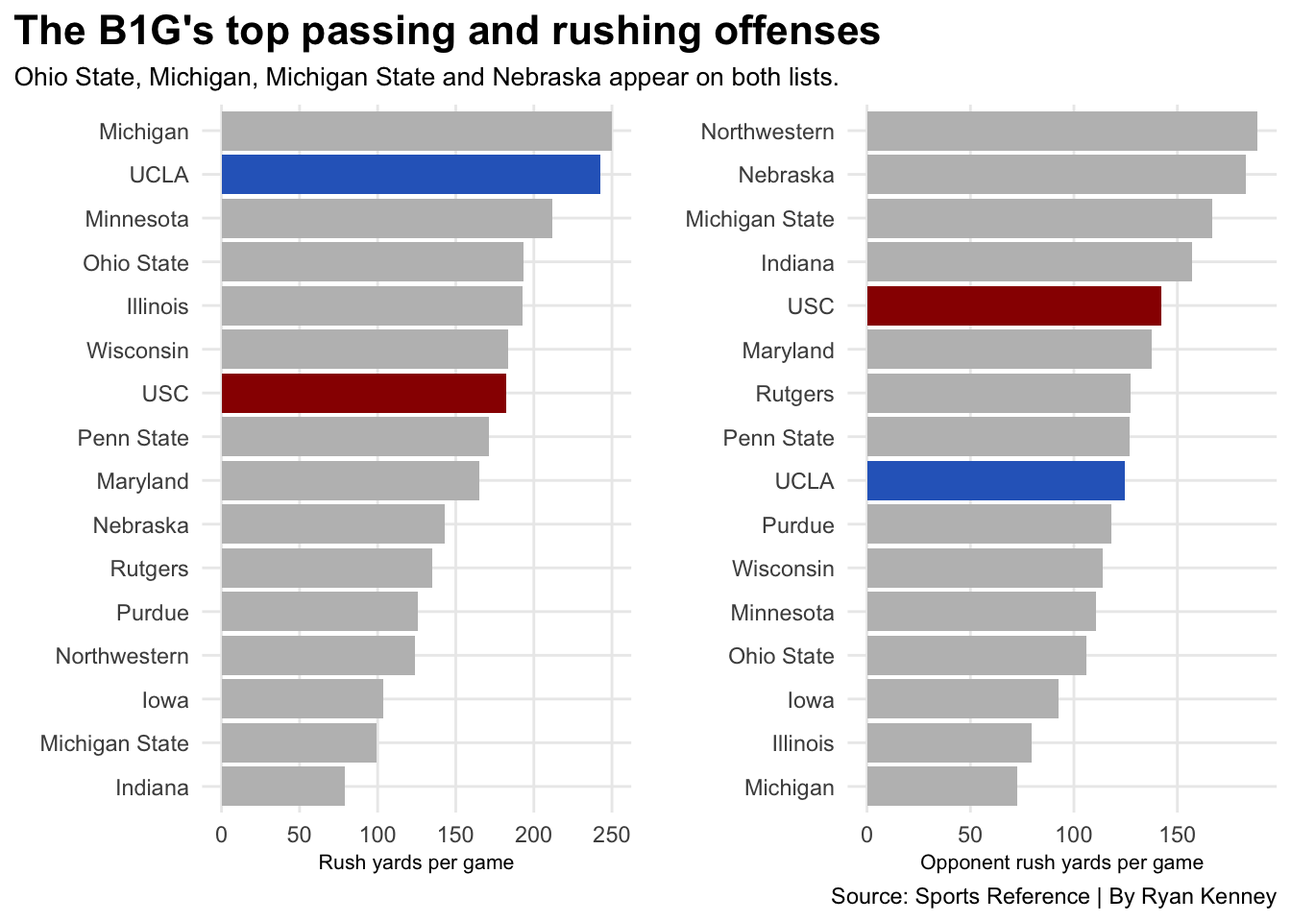
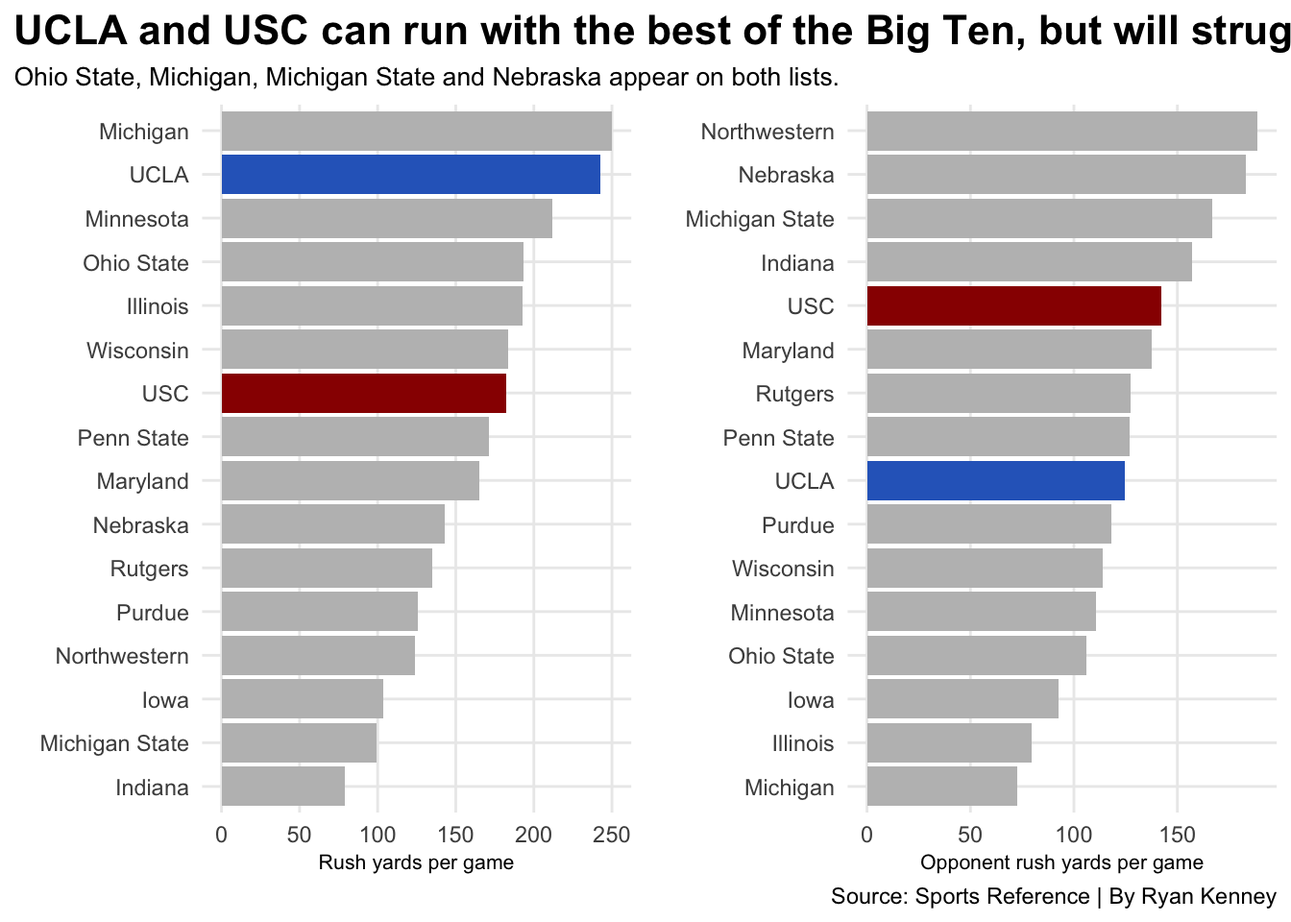
yes

Changed region(s): [[0.0, 0.0, 1.0, 0.0625]]

diff --git a/posts/ucla-and-usc-meet-big-ten-style-football/index.html b/posts/ucla-and-usc-meet-big-ten-style-football/index.html
@@ -280,7 +280,7 @@ code span.wa { color: #60a0b0; font-weight: bold; font-style: italic; } /* Warni
 <span id="cb1-64"><a href="#cb1-64" aria-hidden="true" tabindex="-1"></a>  <span class="fu">geom_bar</span>(<span class="at">data=</span>uclaOff, <span class="fu">aes</span>(<span class="at">x=</span><span class="fu">reorder</span>(School, RushYds), <span class="at">weight=</span>RushYds), <span class="at">fill=</span><span class="st">"#2D68C4"</span>) <span class="sc">+</span></span>
 <span id="cb1-65"><a href="#cb1-65" aria-hidden="true" tabindex="-1"></a>  <span class="fu">geom_bar</span>(<span class="at">data=</span>uscOff, <span class="fu">aes</span>(<span class="at">x=</span><span class="fu">reorder</span>(School, RushYds), <span class="at">weight=</span>RushYds), <span class="at">fill=</span><span class="st">"#990000"</span>) <span class="sc">+</span></span>
 <span id="cb1-66"><a href="#cb1-66" aria-hidden="true" tabindex="-1"></a>  <span class="fu">coord_flip</span>() <span class="sc">+</span> </span>
-<span id="cb1-67"><a href="#cb1-67" aria-hidden="true" tabindex="-1"></a>  <span class="fu">labs</span>(<span class="at">title=</span><span class="st">"The B1G's top passing and rushing offenses"</span>, <span class="at">subtitle =</span> <span class="st">"Ohio State, Michigan, Michigan State and Nebraska appear on both lists."</span>,  <span class="at">x=</span><span class="st">""</span>, <span class="at">y=</span><span class="st">"Rush yards per game"</span>, <span class="at">caption =</span> <span class="st">""</span>) <span class="sc">+</span> </span>
+<span id="cb1-67"><a href="#cb1-67" aria-hidden="true" tabindex="-1"></a>  <span class="fu">labs</span>(<span class="at">title=</span><span class="st">"UCLA and USC can run with the best of the Big Ten, but will struggle to defend it "</span>, <span class="at">subtitle =</span> <span class="st">"Ohio State, Michigan, Michigan State and Nebraska appear on both lists."</span>,  <span class="at">x=</span><span class="st">""</span>, <span class="at">y=</span><span class="st">"Rush yards per game"</span>, <span class="at">caption =</span> <span class="st">""</span>) <span class="sc">+</span> </span>
 <span id="cb1-68"><a href="#cb1-68" aria-hidden="true" tabindex="-1"></a>  <span class="fu">theme_minimal</span>() <span class="sc">+</span> </span>
 <span id="cb1-69"><a href="#cb1-69" aria-hidden="true" tabindex="-1"></a>  <span class="fu">theme</span>(</span>
 <span id="cb1-70"><a href="#cb1-70" aria-hidden="true" tabindex="-1"></a>    <span class="at">plot.title =</span> <span class="fu">element_text</span>(<span class="at">size =</span> <span class="dv">16</span>, <span class="at">face =</span> <span class="st">"bold"</span>),</span>
@@ -318,87 +318,88 @@ code span.wa { color: #60a0b0; font-weight: bold; font-style: italic; } /* Warni
 <div class="cell">
 <details>
 <summary>Code</summary>
-<div class="sourceCode cell-code" id="cb2"><pre class="sourceCode r code-with-copy"><code class="sourceCode r"><span id="cb2-1"><a href="#cb2-1" aria-hidden="true" tabindex="-1"></a><span class="fu">ggplot</span>() <span class="sc">+</span> </span>
-<span id="cb2-2"><a href="#cb2-2" aria-hidden="true" tabindex="-1"></a>  <span class="fu">geom_point</span>(</span>
-<span id="cb2-3"><a href="#cb2-3" aria-hidden="true" tabindex="-1"></a>    <span class="at">data=</span>bigten22, </span>
-<span id="cb2-4"><a href="#cb2-4" aria-hidden="true" tabindex="-1"></a>    <span class="fu">aes</span>(<span class="at">x=</span>SRS, <span class="at">y=</span>SOS, <span class="at">size=</span>W), </span>
-<span id="cb2-5"><a href="#cb2-5" aria-hidden="true" tabindex="-1"></a>    <span class="at">color=</span><span class="st">"grey"</span>, </span>
-<span id="cb2-6"><a href="#cb2-6" aria-hidden="true" tabindex="-1"></a>    <span class="at">alpha=</span>.<span class="dv">3</span>) <span class="sc">+</span> </span>
-<span id="cb2-7"><a href="#cb2-7" aria-hidden="true" tabindex="-1"></a>  <span class="fu">geom_point</span>(</span>
-<span id="cb2-8"><a href="#cb2-8" aria-hidden="true" tabindex="-1"></a>    <span class="at">data=</span>bigten22, </span>
-<span id="cb2-9"><a href="#cb2-9" aria-hidden="true" tabindex="-1"></a>    <span class="fu">aes</span>(<span class="at">x=</span>SRS, <span class="at">y=</span>SOS, <span class="at">size=</span>W), </span>
-<span id="cb2-10"><a href="#cb2-10" aria-hidden="true" tabindex="-1"></a>    <span class="at">color=</span><span class="st">"red"</span>) <span class="sc">+</span> </span>
-<span id="cb2-11"><a href="#cb2-11" aria-hidden="true" tabindex="-1"></a>  <span class="fu">geom_vline</span>(<span class="at">xintercept =</span> <span class="fl">7.1025</span>) <span class="sc">+</span> </span>
-<span id="cb2-12"><a href="#cb2-12" aria-hidden="true" tabindex="-1"></a>  <span class="fu">geom_hline</span>(<span class="at">yintercept =</span> <span class="fl">0.97125</span>) <span class="sc">+</span></span>
-<span id="cb2-13"><a href="#cb2-13" aria-hidden="true" tabindex="-1"></a>  <span class="fu">geom_text</span>(<span class="fu">aes</span>(<span class="at">x=</span><span class="fl">20.5</span>, <span class="at">y=</span><span class="fl">5.5</span>, <span class="at">label=</span><span class="st">"Good SRS, Good SOS"</span>), <span class="at">color=</span><span class="st">"blue"</span>) <span class="sc">+</span></span>
-<span id="cb2-14"><a href="#cb2-14" aria-hidden="true" tabindex="-1"></a>  <span class="fu">geom_text</span>(<span class="fu">aes</span>(<span class="at">x=</span><span class="sc">-</span><span class="fl">4.5</span>, <span class="at">y=</span><span class="sc">-</span><span class="fl">2.8</span>, <span class="at">label=</span><span class="st">"Bad SRS, Bad SOS"</span>), <span class="at">color=</span><span class="st">"blue"</span>) <span class="sc">+</span></span>
-<span id="cb2-15"><a href="#cb2-15" aria-hidden="true" tabindex="-1"></a>  <span class="fu">geom_text_repel</span>(</span>
-<span id="cb2-16"><a href="#cb2-16" aria-hidden="true" tabindex="-1"></a>    <span class="at">data=</span>bigten22, </span>
-<span id="cb2-17"><a href="#cb2-17" aria-hidden="true" tabindex="-1"></a>    <span class="fu">aes</span>(<span class="at">x=</span>SRS, <span class="at">y=</span>SOS, <span class="at">label=</span>Team)</span>
-<span id="cb2-18"><a href="#cb2-18" aria-hidden="true" tabindex="-1"></a>  ) <span class="sc">+</span></span>
-<span id="cb2-19"><a href="#cb2-19" aria-hidden="true" tabindex="-1"></a>  </span>
-<span id="cb2-20"><a href="#cb2-20" aria-hidden="true" tabindex="-1"></a>   <span class="fu">labs</span>(</span>
-<span id="cb2-21"><a href="#cb2-21" aria-hidden="true" tabindex="-1"></a>    <span class="at">x=</span><span class="st">"Simple Rating System (SRS)"</span>, </span>
-<span id="cb2-22"><a href="#cb2-22" aria-hidden="true" tabindex="-1"></a>    <span class="at">y=</span><span class="st">"Strength of Schedule (SOS)"</span>, </span>
-<span id="cb2-23"><a href="#cb2-23" aria-hidden="true" tabindex="-1"></a>    <span class="at">title=</span><span class="st">"USC"</span>, </span>
-<span id="cb2-24"><a href="#cb2-24" aria-hidden="true" tabindex="-1"></a>    <span class="at">subtitle=</span><span class="st">"USC is winning games despite having a harder strength of schedule than any Big Ten team."</span>, </span>
-<span id="cb2-25"><a href="#cb2-25" aria-hidden="true" tabindex="-1"></a>    <span class="at">caption=</span><span class="st">"Source: Sports Reference | By Ryan Kenney"</span></span>
-<span id="cb2-26"><a href="#cb2-26" aria-hidden="true" tabindex="-1"></a>    ) <span class="sc">+</span></span>
-<span id="cb2-27"><a href="#cb2-27" aria-hidden="true" tabindex="-1"></a>  </span>
-<span id="cb2-28"><a href="#cb2-28" aria-hidden="true" tabindex="-1"></a>  <span class="fu">theme_light</span>() <span class="sc">+</span></span>
-<span id="cb2-29"><a href="#cb2-29" aria-hidden="true" tabindex="-1"></a>  <span class="fu">theme</span>(</span>
-<span id="cb2-30"><a href="#cb2-30" aria-hidden="true" tabindex="-1"></a>    <span class="at">plot.title =</span> <span class="fu">element_text</span>(<span class="at">size =</span> <span class="dv">16</span>, <span class="at">face =</span> <span class="st">"bold"</span>),</span>
-<span id="cb2-31"><a href="#cb2-31" aria-hidden="true" tabindex="-1"></a>    <span class="at">axis.title =</span> <span class="fu">element_text</span>(<span class="at">size =</span> <span class="dv">8</span>),</span>
-<span id="cb2-32"><a href="#cb2-32" aria-hidden="true" tabindex="-1"></a>    <span class="at">plot.subtitle =</span> <span class="fu">element_text</span>(<span class="at">size =</span> <span class="dv">10</span>),</span>
-<span id="cb2-33"><a href="#cb2-33" aria-hidden="true" tabindex="-1"></a>    <span class="at">panel.grid.minor =</span> <span class="fu">element_blank</span>()</span>
-<span id="cb2-34"><a href="#cb2-34" aria-hidden="true" tabindex="-1"></a>  )</span></code><button title="Copy to Clipboard" class="code-copy-button"><i class="bi"></i></button></pre></div>
+<div class="sourceCode cell-code" id="cb2"><pre class="sourceCode r code-with-copy"><code class="sourceCode r"><span id="cb2-1"><a href="#cb2-1" aria-hidden="true" tabindex="-1"></a>bigten <span class="ot">&lt;-</span> <span class="fu">c</span>(<span class="st">"Illinois"</span>, <span class="st">"Indiana"</span>, <span class="st">"Iowa"</span>, <span class="st">"Maryland"</span>, <span class="st">"Michigan State"</span>, <span class="st">"Michigan"</span>, <span class="st">"Minnesota"</span>, <span class="st">"Nebraska"</span>, <span class="st">"Northwestern"</span>, <span class="st">"Ohio State"</span>, <span class="st">"Penn State"</span>, <span class="st">"Purdue"</span>, <span class="st">"Rutgers"</span>, <span class="st">"Wisconsin"</span>, <span class="st">"UCLA"</span>, <span class="st">"USC"</span>)</span>
+<span id="cb2-2"><a href="#cb2-2" aria-hidden="true" tabindex="-1"></a></span>
+<span id="cb2-3"><a href="#cb2-3" aria-hidden="true" tabindex="-1"></a>bigtendefense <span class="ot">&lt;-</span> teamdefense <span class="sc">%&gt;%</span> <span class="fu">filter</span>(School <span class="sc">%in%</span> bigten)</span>
+<span id="cb2-4"><a href="#cb2-4" aria-hidden="true" tabindex="-1"></a></span>
+<span id="cb2-5"><a href="#cb2-5" aria-hidden="true" tabindex="-1"></a>bigtenrank <span class="ot">&lt;-</span> bigtendefense <span class="sc">%&gt;%</span> <span class="fu">group_by</span>(Season) <span class="sc">%&gt;%</span> </span>
+<span id="cb2-6"><a href="#cb2-6" aria-hidden="true" tabindex="-1"></a>  <span class="fu">mutate</span>(<span class="at">Rank =</span> <span class="fu">dense_rank</span>(Pts))</span>
+<span id="cb2-7"><a href="#cb2-7" aria-hidden="true" tabindex="-1"></a></span>
+<span id="cb2-8"><a href="#cb2-8" aria-hidden="true" tabindex="-1"></a><span class="fu">ggplot</span>() <span class="sc">+</span> </span>
+<span id="cb2-9"><a href="#cb2-9" aria-hidden="true" tabindex="-1"></a>  <span class="fu">geom_bump</span>(<span class="at">data=</span>bigtenrank, <span class="fu">aes</span>(<span class="at">x=</span><span class="fu">as.numeric</span>(Season), <span class="at">y=</span>Rank, <span class="at">color=</span>School)) <span class="sc">+</span></span>
+<span id="cb2-10"><a href="#cb2-10" aria-hidden="true" tabindex="-1"></a>  </span>
+<span id="cb2-11"><a href="#cb2-11" aria-hidden="true" tabindex="-1"></a>  <span class="fu">geom_point</span>(<span class="at">data=</span>bigtenrank, <span class="fu">aes</span>(<span class="at">x=</span><span class="fu">as.numeric</span>(Season), <span class="at">y=</span>Rank, <span class="at">color=</span>School), <span class="at">size =</span> <span class="dv">2</span>) <span class="sc">+</span></span>
+<span id="cb2-12"><a href="#cb2-12" aria-hidden="true" tabindex="-1"></a>  </span>
+<span id="cb2-13"><a href="#cb2-13" aria-hidden="true" tabindex="-1"></a>  <span class="fu">geom_text</span>(<span class="at">data =</span> bigtenrank <span class="sc">%&gt;%</span> <span class="fu">filter</span>(<span class="fu">as.numeric</span>(Season) <span class="sc">==</span> <span class="dv">2014</span>), <span class="fu">aes</span>(<span class="at">x =</span> <span class="fu">as.numeric</span>(Season) <span class="sc">-</span> .<span class="dv">05</span>, <span class="at">y=</span>Rank, <span class="at">label =</span> School), <span class="at">size =</span> <span class="dv">2</span>, <span class="at">hjust =</span> <span class="dv">1</span>) <span class="sc">+</span></span>
+<span id="cb2-14"><a href="#cb2-14" aria-hidden="true" tabindex="-1"></a>  <span class="fu">geom_text</span>(<span class="at">data =</span> bigtenrank <span class="sc">%&gt;%</span> <span class="fu">filter</span>(<span class="fu">as.numeric</span>(Season) <span class="sc">==</span> <span class="dv">2022</span>), <span class="fu">aes</span>(<span class="at">x =</span> <span class="fu">as.numeric</span>(Season) <span class="sc">+</span> .<span class="dv">05</span>, <span class="at">y=</span>Rank, <span class="at">label =</span> School), <span class="at">size =</span> <span class="dv">2</span>, <span class="at">hjust =</span> <span class="dv">0</span>) <span class="sc">+</span></span>
+<span id="cb2-15"><a href="#cb2-15" aria-hidden="true" tabindex="-1"></a>  </span>
+<span id="cb2-16"><a href="#cb2-16" aria-hidden="true" tabindex="-1"></a>  </span>
+<span id="cb2-17"><a href="#cb2-17" aria-hidden="true" tabindex="-1"></a>  <span class="fu">scale_color_manual</span>(<span class="at">values =</span> <span class="fu">c</span>(<span class="st">"#000000"</span>,<span class="st">"#000000"</span>, <span class="st">"#000000"</span>, <span class="st">"#000000"</span>, <span class="st">"#000000"</span>, <span class="st">"#000000"</span>,<span class="st">"#000000"</span>, <span class="st">"#000000"</span>, <span class="st">"#000000"</span>, <span class="st">"#000000"</span>, <span class="st">"#000000"</span>, <span class="st">"#000000"</span>, <span class="st">"#000000"</span>,<span class="st">"#2D68C4"</span>,<span class="st">"#990000"</span>,<span class="st">"#000000"</span>)) <span class="sc">+</span></span>
+<span id="cb2-18"><a href="#cb2-18" aria-hidden="true" tabindex="-1"></a>  </span>
+<span id="cb2-19"><a href="#cb2-19" aria-hidden="true" tabindex="-1"></a>  <span class="fu">scale_x_continuous</span>(<span class="at">breaks=</span><span class="fu">c</span>(<span class="dv">2014</span>, <span class="dv">2015</span>, <span class="dv">2016</span>, <span class="dv">2017</span>, <span class="dv">2018</span>, <span class="dv">2019</span>, <span class="dv">2020</span>, <span class="dv">2021</span>, <span class="dv">2022</span>)) <span class="sc">+</span></span>
+<span id="cb2-20"><a href="#cb2-20" aria-hidden="true" tabindex="-1"></a>  </span>
+<span id="cb2-21"><a href="#cb2-21" aria-hidden="true" tabindex="-1"></a>  <span class="fu">scale_y_reverse</span>(<span class="at">breaks=</span><span class="fu">c</span>(<span class="dv">1</span>,<span class="dv">2</span>,<span class="dv">3</span>,<span class="dv">4</span>,<span class="dv">5</span>,<span class="dv">6</span>,<span class="dv">7</span>,<span class="dv">8</span>,<span class="dv">9</span>,<span class="dv">10</span>,<span class="dv">11</span>,<span class="dv">12</span>,<span class="dv">13</span>,<span class="dv">14</span>,<span class="dv">15</span>,<span class="dv">16</span>)) <span class="sc">+</span></span>
+<span id="cb2-22"><a href="#cb2-22" aria-hidden="true" tabindex="-1"></a>  </span>
+<span id="cb2-23"><a href="#cb2-23" aria-hidden="true" tabindex="-1"></a>  <span class="fu">labs</span>(<span class="at">title =</span> <span class="st">"USC and UCLA on defense"</span>, <span class="at">subtitle=</span><span class="st">"subtitle goes here"</span>, <span class="at">y=</span><span class="st">"Rank"</span>, <span class="at">x=</span><span class="st">"Season"</span>) <span class="sc">+</span></span>
+<span id="cb2-24"><a href="#cb2-24" aria-hidden="true" tabindex="-1"></a>  </span>
+<span id="cb2-25"><a href="#cb2-25" aria-hidden="true" tabindex="-1"></a><span class="fu">theme_light</span>()<span class="sc">+</span></span>
+<span id="cb2-26"><a href="#cb2-26" aria-hidden="true" tabindex="-1"></a> <span class="fu">theme</span>(</span>
+<span id="cb2-27"><a href="#cb2-27" aria-hidden="true" tabindex="-1"></a>    <span class="at">legend.position =</span> <span class="st">"none"</span>,</span>
+<span id="cb2-28"><a href="#cb2-28" aria-hidden="true" tabindex="-1"></a>    <span class="at">panel.grid.major =</span> <span class="fu">element_blank</span>(),</span>
+<span id="cb2-29"><a href="#cb2-29" aria-hidden="true" tabindex="-1"></a>    <span class="at">plot.title =</span> <span class="fu">element_text</span>(<span class="at">size =</span> <span class="dv">16</span>, <span class="at">face =</span> <span class="st">"bold"</span>),</span>
+<span id="cb2-30"><a href="#cb2-30" aria-hidden="true" tabindex="-1"></a>    <span class="at">axis.title =</span> <span class="fu">element_text</span>(<span class="at">size =</span> <span class="dv">8</span>), </span>
+<span id="cb2-31"><a href="#cb2-31" aria-hidden="true" tabindex="-1"></a>    <span class="at">plot.subtitle =</span> <span class="fu">element_text</span>(<span class="at">size=</span><span class="dv">10</span>), </span>
+<span id="cb2-32"><a href="#cb2-32" aria-hidden="true" tabindex="-1"></a>    <span class="at">panel.grid.minor =</span> <span class="fu">element_blank</span>()</span>
+<span id="cb2-33"><a href="#cb2-33" aria-hidden="true" tabindex="-1"></a>  )</span></code><button title="Copy to Clipboard" class="code-copy-button"><i class="bi"></i></button></pre></div>
 </details>
 <div class="cell-output-display">
-<p><img src="index_files/figure-html/unnamed-chunk-2-1.png" class="img-fluid" width="672"></p>
+<p><img src="index_files/figure-html/unnamed-chunk-2-1.png" class="img-fluid" width="576"></p>
 </div>
 </div>
+<p>Text goes here.</p>
 <div class="cell">
 <details>
 <summary>Code</summary>
-<div class="sourceCode cell-code" id="cb3"><pre class="sourceCode r code-with-copy"><code class="sourceCode r"><span id="cb3-1"><a href="#cb3-1" aria-hidden="true" tabindex="-1"></a>bigten <span class="ot">&lt;-</span> <span class="fu">c</span>(<span class="st">"Illinois"</span>, <span class="st">"Indiana"</span>, <span class="st">"Iowa"</span>, <span class="st">"Maryland"</span>, <span class="st">"Michigan State"</span>, <span class="st">"Michigan"</span>, <span class="st">"Minnesota"</span>, <span class="st">"Nebraska"</span>, <span class="st">"Northwestern"</span>, <span class="st">"Ohio State"</span>, <span class="st">"Penn State"</span>, <span class="st">"Purdue"</span>, <span class="st">"Rutgers"</span>, <span class="st">"Wisconsin"</span>, <span class="st">"UCLA"</span>, <span class="st">"USC"</span>)</span>
-<span id="cb3-2"><a href="#cb3-2" aria-hidden="true" tabindex="-1"></a></span>
-<span id="cb3-3"><a href="#cb3-3" aria-hidden="true" tabindex="-1"></a>bigtendefense <span class="ot">&lt;-</span> teamdefense <span class="sc">%&gt;%</span> <span class="fu">filter</span>(School <span class="sc">%in%</span> bigten)</span>
-<span id="cb3-4"><a href="#cb3-4" aria-hidden="true" tabindex="-1"></a></span>
-<span id="cb3-5"><a href="#cb3-5" aria-hidden="true" tabindex="-1"></a>bigtenrank <span class="ot">&lt;-</span> bigtendefense <span class="sc">%&gt;%</span> <span class="fu">group_by</span>(Season) <span class="sc">%&gt;%</span> </span>
-<span id="cb3-6"><a href="#cb3-6" aria-hidden="true" tabindex="-1"></a>  <span class="fu">mutate</span>(<span class="at">Rank =</span> <span class="fu">dense_rank</span>(Pts))</span>
-<span id="cb3-7"><a href="#cb3-7" aria-hidden="true" tabindex="-1"></a></span>
-<span id="cb3-8"><a href="#cb3-8" aria-hidden="true" tabindex="-1"></a><span class="fu">ggplot</span>() <span class="sc">+</span> </span>
-<span id="cb3-9"><a href="#cb3-9" aria-hidden="true" tabindex="-1"></a>  <span class="fu">geom_bump</span>(<span class="at">data=</span>bigtenrank, <span class="fu">aes</span>(<span class="at">x=</span><span class="fu">as.numeric</span>(Season), <span class="at">y=</span>Rank, <span class="at">color=</span>School)) <span class="sc">+</span></span>
-<span id="cb3-10"><a href="#cb3-10" aria-hidden="true" tabindex="-1"></a>  </span>
-<span id="cb3-11"><a href="#cb3-11" aria-hidden="true" tabindex="-1"></a>  <span class="fu">geom_point</span>(<span class="at">data=</span>bigtenrank, <span class="fu">aes</span>(<span class="at">x=</span><span class="fu">as.numeric</span>(Season), <span class="at">y=</span>Rank, <span class="at">color=</span>School), <span class="at">size =</span> <span class="dv">2</span>) <span class="sc">+</span></span>
-<span id="cb3-12"><a href="#cb3-12" aria-hidden="true" tabindex="-1"></a>  </span>
-<span id="cb3-13"><a href="#cb3-13" aria-hidden="true" tabindex="-1"></a>  <span class="fu">geom_text</span>(<span class="at">data =</span> bigtenrank <span class="sc">%&gt;%</span> <span class="fu">filter</span>(<span class="fu">as.numeric</span>(Season) <span class="sc">==</span> <span class="dv">2014</span>), <span class="fu">aes</span>(<span class="at">x =</span> <span class="fu">as.numeric</span>(Season) <span class="sc">-</span> .<span class="dv">05</span>, <span class="at">y=</span>Rank, <span class="at">label =</span> School), <span class="at">size =</span> <span class="dv">2</span>, <span class="at">hjust =</span> <span class="dv">1</span>) <span class="sc">+</span></span>
-<span id="cb3-14"><a href="#cb3-14" aria-hidden="true" tabindex="-1"></a>  <span class="fu">geom_text</span>(<span class="at">data =</span> bigtenrank <span class="sc">%&gt;%</span> <span class="fu">filter</span>(<span class="fu">as.numeric</span>(Season) <span class="sc">==</span> <span class="dv">2022</span>), <span class="fu">aes</span>(<span class="at">x =</span> <span class="fu">as.numeric</span>(Season) <span class="sc">+</span> .<span class="dv">05</span>, <span class="at">y=</span>Rank, <span class="at">label =</span> School), <span class="at">size =</span> <span class="dv">2</span>, <span class="at">hjust =</span> <span class="dv">0</span>) <span class="sc">+</span></span>
-<span id="cb3-15"><a href="#cb3-15" aria-hidden="true" tabindex="-1"></a>  </span>
-<span id="cb3-16"><a href="#cb3-16" aria-hidden="true" tabindex="-1"></a>  </span>
-<span id="cb3-17"><a href="#cb3-17" aria-hidden="true" tabindex="-1"></a>  <span class="fu">scale_color_manual</span>(<span class="at">values =</span> <span class="fu">c</span>(<span class="st">"#000000"</span>,<span class="st">"#000000"</span>, <span class="st">"#000000"</span>, <span class="st">"#000000"</span>, <span class="st">"#000000"</span>, <span class="st">"#000000"</span>,<span class="st">"#000000"</span>, <span class="st">"#000000"</span>, <span class="st">"#000000"</span>, <span class="st">"#000000"</span>, <span class="st">"#000000"</span>, <span class="st">"#000000"</span>, <span class="st">"#000000"</span>,<span class="st">"#2D68C4"</span>,<span class="st">"#990000"</span>,<span class="st">"#000000"</span>)) <span class="sc">+</span></span>
-<span id="cb3-18"><a href="#cb3-18" aria-hidden="true" tabindex="-1"></a>  </span>
-<span id="cb3-19"><a href="#cb3-19" aria-hidden="true" tabindex="-1"></a>  <span class="fu">scale_x_continuous</span>(<span class="at">breaks=</span><span class="fu">c</span>(<span class="dv">2014</span>, <span class="dv">2015</span>, <span class="dv">2016</span>, <span class="dv">2017</span>, <span class="dv">2018</span>, <span class="dv">2019</span>, <span class="dv">2020</span>, <span class="dv">2021</span>, <span class="dv">2022</span>)) <span class="sc">+</span></span>
-<span id="cb3-20"><a href="#cb3-20" aria-hidden="true" tabindex="-1"></a>  </span>
-<span id="cb3-21"><a href="#cb3-21" aria-hidden="true" tabindex="-1"></a>  <span class="fu">scale_y_reverse</span>(<span class="at">breaks=</span><span class="fu">c</span>(<span class="dv">1</span>,<span class="dv">2</span>,<span class="dv">3</span>,<span class="dv">4</span>,<span class="dv">5</span>,<span class="dv">6</span>,<span class="dv">7</span>,<span class="dv">8</span>,<span class="dv">9</span>,<span class="dv">10</span>,<span class="dv">11</span>,<span class="dv">12</span>,<span class="dv">13</span>,<span class="dv">14</span>,<span class="dv">15</span>,<span class="dv">16</span>)) <span class="sc">+</span></span>
-<span id="cb3-22"><a href="#cb3-22" aria-hidden="true" tabindex="-1"></a>  </span>
-<span id="cb3-23"><a href="#cb3-23" aria-hidden="true" tabindex="-1"></a>  <span class="fu">labs</span>(<span class="at">title =</span> <span class="st">"USC and UCLA on defense"</span>, <span class="at">subtitle=</span><span class="st">"subtitle goes here"</span>, <span class="at">y=</span><span class="st">"Rank"</span>, <span class="at">x=</span><span class="st">"Season"</span>) <span class="sc">+</span></span>
-<span id="cb3-24"><a href="#cb3-24" aria-hidden="true" tabindex="-1"></a>  </span>
-<span id="cb3-25"><a href="#cb3-25" aria-hidden="true" tabindex="-1"></a><span class="fu">theme_light</span>()<span class="sc">+</span></span>
-<span id="cb3-26"><a href="#cb3-26" aria-hidden="true" tabindex="-1"></a> <span class="fu">theme</span>(</span>
-<span id="cb3-27"><a href="#cb3-27" aria-hidden="true" tabindex="-1"></a>    <span class="at">legend.position =</span> <span class="st">"none"</span>,</span>
-<span id="cb3-28"><a href="#cb3-28" aria-hidden="true" tabindex="-1"></a>    <span class="at">panel.grid.major =</span> <span class="fu">element_blank</span>(),</span>
-<span id="cb3-29"><a href="#cb3-29" aria-hidden="true" tabindex="-1"></a>    <span class="at">plot.title =</span> <span class="fu">element_text</span>(<span class="at">size =</span> <span class="dv">16</span>, <span class="at">face =</span> <span class="st">"bold"</span>),</span>
-<span id="cb3-30"><a href="#cb3-30" aria-hidden="true" tabindex="-1"></a>    <span class="at">axis.title =</span> <span class="fu">element_text</span>(<span class="at">size =</span> <span class="dv">8</span>), </span>
-<span id="cb3-31"><a href="#cb3-31" aria-hidden="true" tabindex="-1"></a>    <span class="at">plot.subtitle =</span> <span class="fu">element_text</span>(<span class="at">size=</span><span class="dv">10</span>), </span>
-<span id="cb3-32"><a href="#cb3-32" aria-hidden="true" tabindex="-1"></a>    <span class="at">panel.grid.minor =</span> <span class="fu">element_blank</span>()</span>
-<span id="cb3-33"><a href="#cb3-33" aria-hidden="true" tabindex="-1"></a>  )</span></code><button title="Copy to Clipboard" class="code-copy-button"><i class="bi"></i></button></pre></div>
+<div class="sourceCode cell-code" id="cb3"><pre class="sourceCode r code-with-copy"><code class="sourceCode r"><span id="cb3-1"><a href="#cb3-1" aria-hidden="true" tabindex="-1"></a><span class="fu">ggplot</span>() <span class="sc">+</span> </span>
+<span id="cb3-2"><a href="#cb3-2" aria-hidden="true" tabindex="-1"></a>  <span class="fu">geom_point</span>(</span>
+<span id="cb3-3"><a href="#cb3-3" aria-hidden="true" tabindex="-1"></a>    <span class="at">data=</span>bigten22, </span>
+<span id="cb3-4"><a href="#cb3-4" aria-hidden="true" tabindex="-1"></a>    <span class="fu">aes</span>(<span class="at">x=</span>SRS, <span class="at">y=</span>SOS, <span class="at">size=</span>W), </span>
+<span id="cb3-5"><a href="#cb3-5" aria-hidden="true" tabindex="-1"></a>    <span class="at">color=</span><span class="st">"grey"</span>, </span>
+<span id="cb3-6"><a href="#cb3-6" aria-hidden="true" tabindex="-1"></a>    <span class="at">alpha=</span>.<span class="dv">3</span>) <span class="sc">+</span> </span>
+<span id="cb3-7"><a href="#cb3-7" aria-hidden="true" tabindex="-1"></a>  <span class="fu">geom_point</span>(</span>
+<span id="cb3-8"><a href="#cb3-8" aria-hidden="true" tabindex="-1"></a>    <span class="at">data=</span>bigten22, </span>
+<span id="cb3-9"><a href="#cb3-9" aria-hidden="true" tabindex="-1"></a>    <span class="fu">aes</span>(<span class="at">x=</span>SRS, <span class="at">y=</span>SOS, <span class="at">size=</span>W), </span>
+<span id="cb3-10"><a href="#cb3-10" aria-hidden="true" tabindex="-1"></a>    <span class="at">color=</span><span class="st">"red"</span>) <span class="sc">+</span> </span>
+<span id="cb3-11"><a href="#cb3-11" aria-hidden="true" tabindex="-1"></a>  <span class="fu">geom_vline</span>(<span class="at">xintercept =</span> <span class="fl">7.1025</span>) <span class="sc">+</span> </span>
+<span id="cb3-12"><a href="#cb3-12" aria-hidden="true" tabindex="-1"></a>  <span class="fu">geom_hline</span>(<span class="at">yintercept =</span> <span class="fl">0.97125</span>) <span class="sc">+</span></span>
+<span id="cb3-13"><a href="#cb3-13" aria-hidden="true" tabindex="-1"></a>  <span class="fu">geom_text</span>(<span class="fu">aes</span>(<span class="at">x=</span><span class="fl">20.5</span>, <span class="at">y=</span><span class="fl">5.5</span>, <span class="at">label=</span><span class="st">"Good SRS, Good SOS"</span>), <span class="at">color=</span><span class="st">"blue"</span>) <span class="sc">+</span></span>
+<span id="cb3-14"><a href="#cb3-14" aria-hidden="true" tabindex="-1"></a>  <span class="fu">geom_text</span>(<span class="fu">aes</span>(<span class="at">x=</span><span class="sc">-</span><span class="fl">4.5</span>, <span class="at">y=</span><span class="sc">-</span><span class="fl">2.8</span>, <span class="at">label=</span><span class="st">"Bad SRS, Bad SOS"</span>), <span class="at">color=</span><span class="st">"blue"</span>) <span class="sc">+</span></span>
+<span id="cb3-15"><a href="#cb3-15" aria-hidden="true" tabindex="-1"></a>  <span class="fu">geom_text_repel</span>(</span>
+<span id="cb3-16"><a href="#cb3-16" aria-hidden="true" tabindex="-1"></a>    <span class="at">data=</span>bigten22, </span>
+<span id="cb3-17"><a href="#cb3-17" aria-hidden="true" tabindex="-1"></a>    <span class="fu">aes</span>(<span class="at">x=</span>SRS, <span class="at">y=</span>SOS, <span class="at">label=</span>Team)</span>
+<span id="cb3-18"><a href="#cb3-18" aria-hidden="true" tabindex="-1"></a>  ) <span class="sc">+</span></span>
+<span id="cb3-19"><a href="#cb3-19" aria-hidden="true" tabindex="-1"></a>  </span>
+<span id="cb3-20"><a href="#cb3-20" aria-hidden="true" tabindex="-1"></a>   <span class="fu">labs</span>(</span>
+<span id="cb3-21"><a href="#cb3-21" aria-hidden="true" tabindex="-1"></a>    <span class="at">x=</span><span class="st">"Simple Rating System (SRS)"</span>, </span>
+<span id="cb3-22"><a href="#cb3-22" aria-hidden="true" tabindex="-1"></a>    <span class="at">y=</span><span class="st">"Strength of Schedule (SOS)"</span>, </span>
+<span id="cb3-23"><a href="#cb3-23" aria-hidden="true" tabindex="-1"></a>    <span class="at">title=</span><span class="st">"USC"</span>, </span>
+<span id="cb3-24"><a href="#cb3-24" aria-hidden="true" tabindex="-1"></a>    <span class="at">subtitle=</span><span class="st">"USC is winning games despite having a harder strength of schedule than any Big Ten team."</span>, </span>
+<span id="cb3-25"><a href="#cb3-25" aria-hidden="true" tabindex="-1"></a>    <span class="at">caption=</span><span class="st">"Source: Sports Reference | By Ryan Kenney"</span></span>
+<span id="cb3-26"><a href="#cb3-26" aria-hidden="true" tabindex="-1"></a>    ) <span class="sc">+</span></span>
+<span id="cb3-27"><a href="#cb3-27" aria-hidden="true" tabindex="-1"></a>  </span>
+<span id="cb3-28"><a href="#cb3-28" aria-hidden="true" tabindex="-1"></a>  <span class="fu">theme_light</span>() <span class="sc">+</span></span>
+<span id="cb3-29"><a href="#cb3-29" aria-hidden="true" tabindex="-1"></a>  <span class="fu">theme</span>(</span>
+<span id="cb3-30"><a href="#cb3-30" aria-hidden="true" tabindex="-1"></a>    <span class="at">plot.title =</span> <span class="fu">element_text</span>(<span class="at">size =</span> <span class="dv">16</span>, <span class="at">face =</span> <span class="st">"bold"</span>),</span>
+<span id="cb3-31"><a href="#cb3-31" aria-hidden="true" tabindex="-1"></a>    <span class="at">axis.title =</span> <span class="fu">element_text</span>(<span class="at">size =</span> <span class="dv">8</span>),</span>
+<span id="cb3-32"><a href="#cb3-32" aria-hidden="true" tabindex="-1"></a>    <span class="at">plot.subtitle =</span> <span class="fu">element_text</span>(<span class="at">size =</span> <span class="dv">10</span>),</span>
+<span id="cb3-33"><a href="#cb3-33" aria-hidden="true" tabindex="-1"></a>    <span class="at">panel.grid.minor =</span> <span class="fu">element_blank</span>()</span>
+<span id="cb3-34"><a href="#cb3-34" aria-hidden="true" tabindex="-1"></a>  )</span></code><button title="Copy to Clipboard" class="code-copy-button"><i class="bi"></i></button></pre></div>
 </details>
 <div class="cell-output-display">
-<p><img src="index_files/figure-html/unnamed-chunk-3-1.png" class="img-fluid" width="576"></p>
+<p><img src="index_files/figure-html/unnamed-chunk-3-1.png" class="img-fluid" width="672"></p>
 </div>
 </div>
-<p>More text here.</p>
+<p>Closing Text here.</p>
 
 
 
